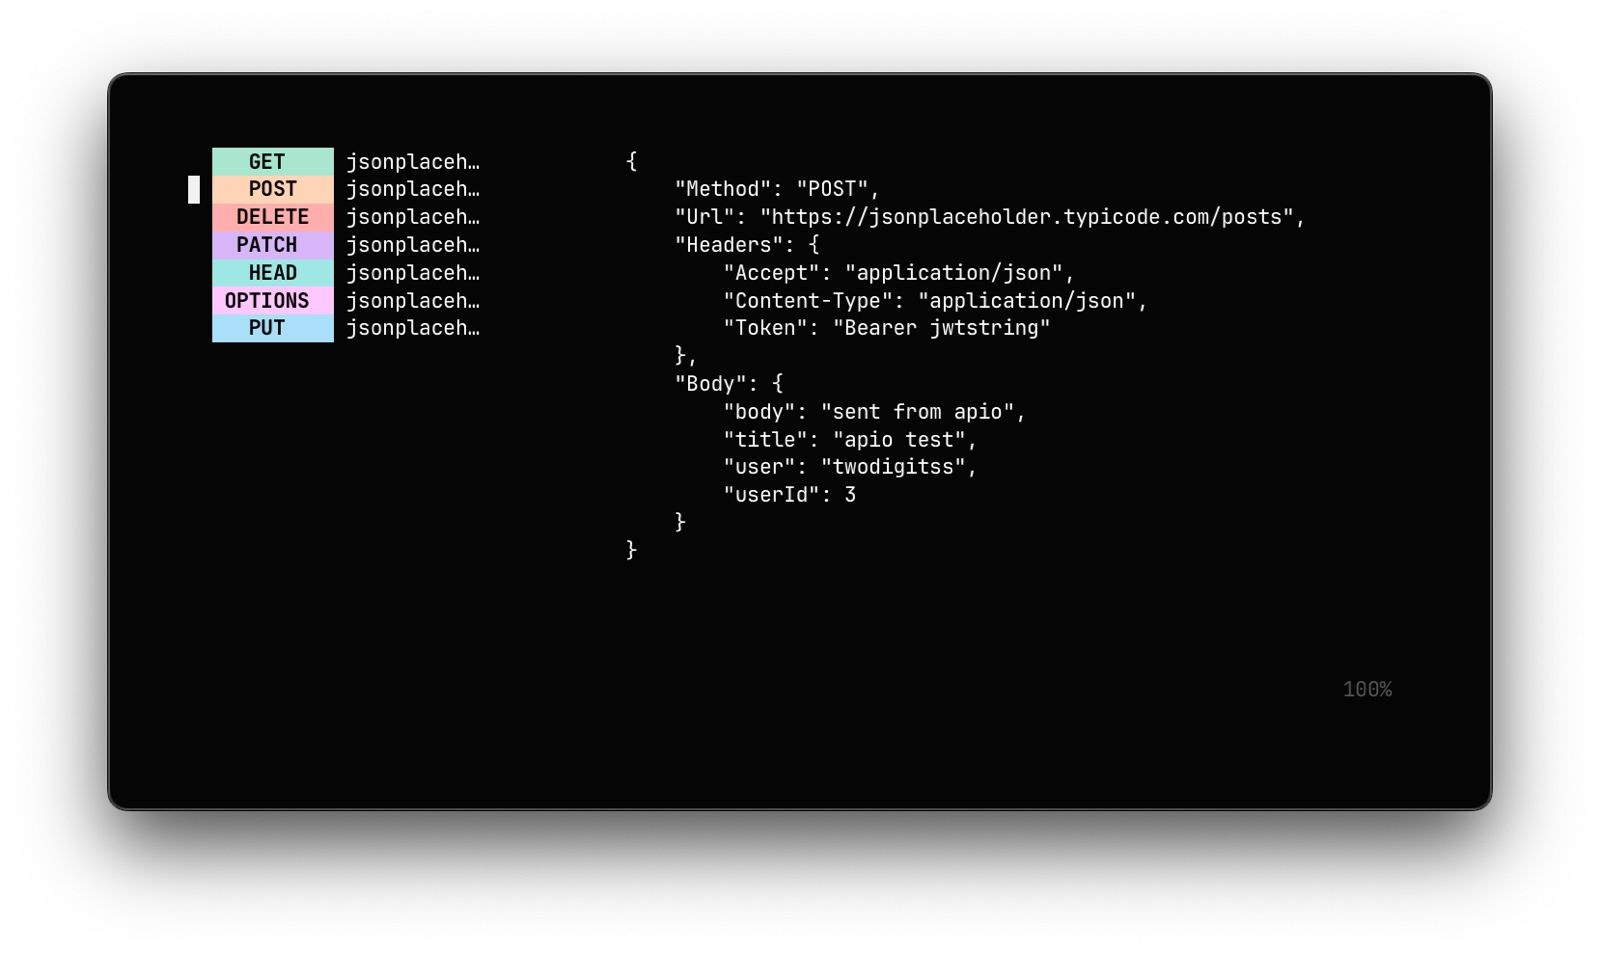
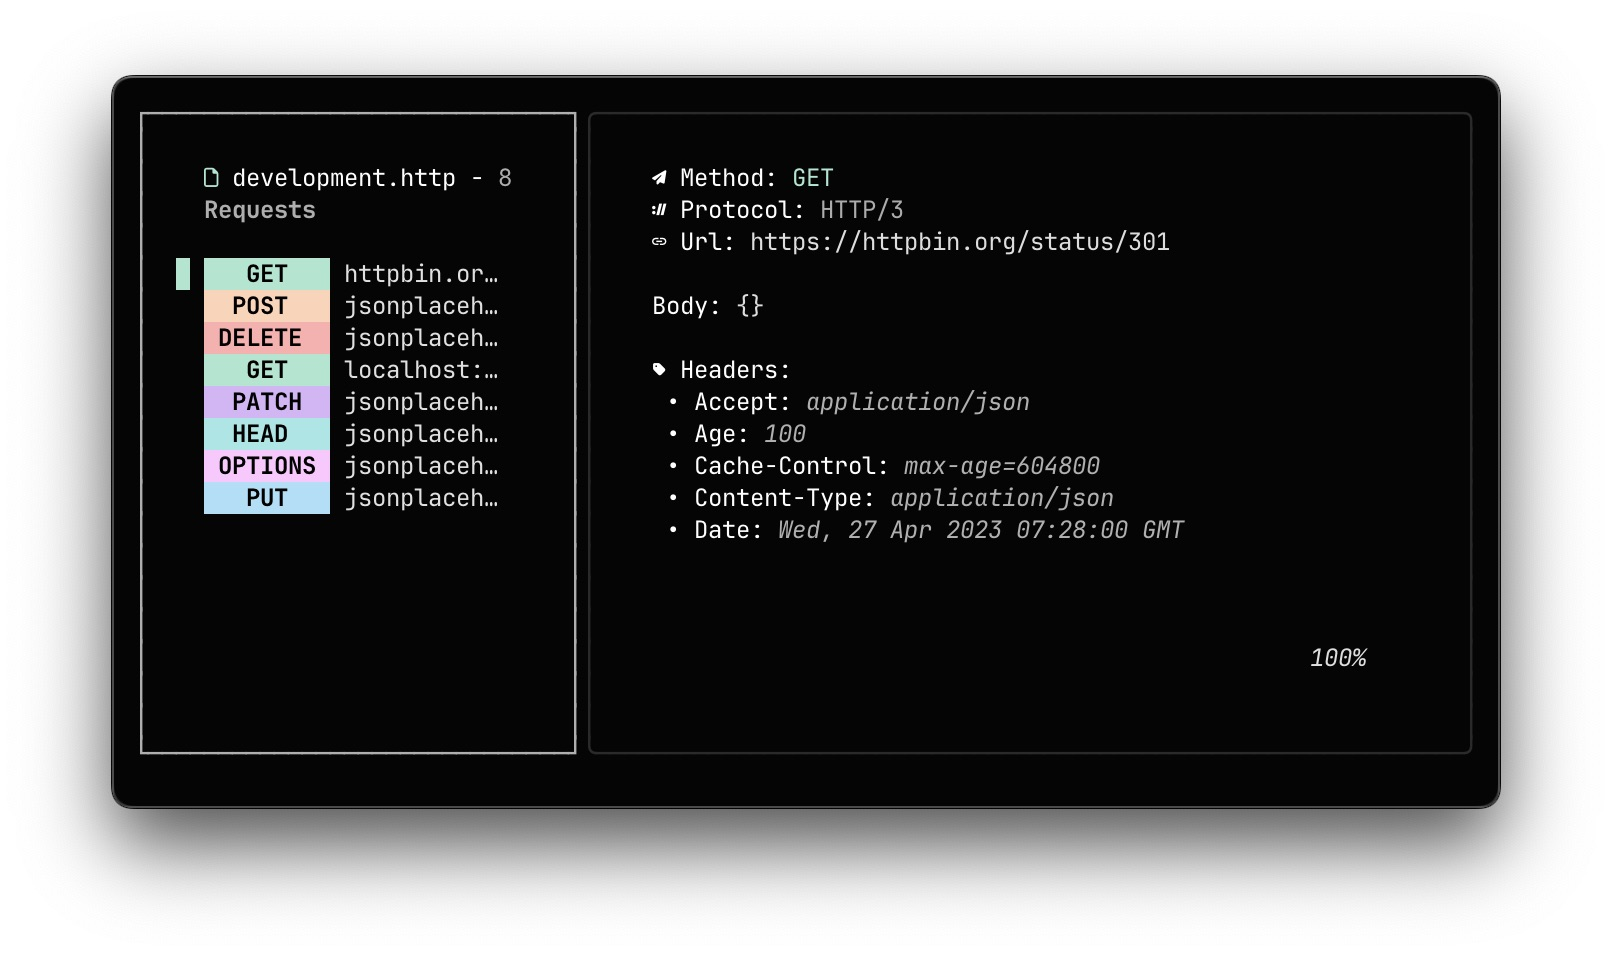
config file groundings

diff --git a/internal/core/config/config.go b/internal/core/config/config.go
@@ -1,0 +1,94 @@
+package config
+
+import (
+	"os"
+
+	"github.com/pelletier/go-toml"
+	"github.com/twodigitss/apio/internal/shared"
+)
+
+// var defaultPath string = shared.ExpandPath("~/.config/apio/config.toml")
+var defaultPath string = shared.ExpandPath("~/Projects/apio/cmd/tea/config.toml")
+
+type Config struct {
+	UI     UIConfig
+	Colors ColorsConfig
+	Path   string
+}
+
+type UIConfig struct {
+	Glyphs  bool
+	Sidebar string
+}
+
+type ColorsConfig struct {
+	GET     string
+	POST    string
+	PUT     string
+	DELETE  string
+	PATCH   string
+	HEAD    string
+	OPTIONS string
+	EXTRA   string
+
+	TEXT      string
+	SUBTEXT   string
+	INFRATEXT string
+
+	BORDER      string
+	SUBBORDER   string
+	INFRABORDER string
+}
+
+func Fallback[T comparable](value, fallback T) T {
+	var zero T
+	if value == zero {
+		return fallback
+	}
+	return value
+}
+
+func Default() Config {
+
+	newcfg := ReadCfgFile()
+
+	return Config{
+		Path: Fallback(newcfg.Path, defaultPath),
+		UI: UIConfig{
+			Glyphs:  Fallback(newcfg.UI.Glyphs, true),
+			Sidebar: Fallback(newcfg.UI.Sidebar, "left"),
+		},
+		Colors: ColorsConfig{
+			GET:     Fallback(newcfg.Colors.GET, "#A8E6CF"),
+			POST:    Fallback(newcfg.Colors.POST, "#FFD3B6"),
+			PUT:     Fallback(newcfg.Colors.PUT, "#A9DEF9"),
+			DELETE:  Fallback(newcfg.Colors.DELETE, "#FFADAD"),
+			PATCH:   Fallback(newcfg.Colors.PATCH, "#D8B4F8"),
+			HEAD:    Fallback(newcfg.Colors.HEAD, "#A0E7E5"),
+			OPTIONS: Fallback(newcfg.Colors.OPTIONS, "#FFC6FF"),
+			EXTRA:   Fallback(newcfg.Colors.EXTRA, "#b3e6a8"),
+
+			TEXT:      Fallback(newcfg.Colors.TEXT, "#F5F5F5"),
+			SUBTEXT:   Fallback(newcfg.Colors.SUBTEXT, "#CECECE"),
+			INFRATEXT: Fallback(newcfg.Colors.INFRATEXT, "#ABABAB"),
+
+			BORDER:      Fallback(newcfg.Colors.BORDER, "#F5F5F5"),
+			SUBBORDER:   Fallback(newcfg.Colors.SUBBORDER, "#4A4A4A"),
+			INFRABORDER: Fallback(newcfg.Colors.INFRABORDER, "#2A2A2A"),
+		},
+	}
+}
+
+func ReadCfgFile() Config {
+	var cfg Config
+	path := defaultPath
+	data, err := os.ReadFile(path)
+	if err != nil {
+		panic(err)
+	}
+	err = toml.Unmarshal(data, &cfg)
+	if err != nil {
+		panic(err)
+	}
+	return cfg
+}

diff --git a/internal/ui/components/help/view.go b/internal/ui/components/help/view.go
@@ -5,6 +5,7 @@ import (
 
 	"charm.land/lipgloss/v2"
 	"charm.land/lipgloss/v2/table"
+	"github.com/twodigitss/apio/internal/core/config"
 )
 
 var rows = [][]string{
@@ -21,10 +22,10 @@ var rows = [][]string{
 	{"y", "Copy body"},
 }
 
-var headerStyle = lipgloss.NewStyle().Foreground(lipgloss.Color("#A8E6CF")).Bold(true).Align(lipgloss.Center)
+var headerStyle = lipgloss.NewStyle().Foreground(lipgloss.Color(config.Default().Colors.GET)).Bold(true).Align(lipgloss.Center)
 var cellStyle = lipgloss.NewStyle().Padding(0, 1).Width(25).Align(lipgloss.Center, lipgloss.Center)
-var oddRowStyle = cellStyle.Foreground(lipgloss.Color("#a0a0a0"))
-var evenRowStyle = cellStyle.Foreground(lipgloss.Color("#efefef"))
+var oddRowStyle = cellStyle.Foreground(lipgloss.Color(config.Default().Colors.INFRATEXT))
+var evenRowStyle = cellStyle.Foreground(lipgloss.Color(config.Default().Colors.TEXT))
 
 func View(Height, Width int) string {
 	var s strings.Builder
@@ -40,7 +41,7 @@ func View(Height, Width int) string {
 
 	t := table.New().
 		Border(lipgloss.NormalBorder()).
-		BorderStyle(lipgloss.NewStyle().Foreground(lipgloss.Color("#4e4e4e"))).
+		BorderStyle(lipgloss.NewStyle().Foreground(lipgloss.Color(config.Default().Colors.SUBBORDER))).
 		Wrap(true).
 		StyleFunc(func(row, col int) lipgloss.Style {
 			switch {
@@ -57,7 +58,7 @@ func View(Height, Width int) string {
 
 	s.WriteString(t.Render() + "\n\n\n")
 	s.WriteString(
-		lipgloss.NewStyle().Foreground(lipgloss.Color("#b0b0b0")).Render("[esc/h/q/?] cancel\n\n"),
+		lipgloss.NewStyle().Foreground(lipgloss.Color(config.Default().Colors.INFRATEXT)).Render("[esc/h/q/?] cancel\n\n"),
 	)
 
 	return lipgloss.NewStyle().
@@ -65,6 +66,6 @@ func View(Height, Width int) string {
 		Width(Width).
 		Border(lipgloss.NormalBorder(), true, true).
 		Align(lipgloss.Center, lipgloss.Center).
-		BorderForeground(lipgloss.Color("#2a2a2a")).
+		BorderForeground(lipgloss.Color(config.Default().Colors.INFRABORDER)).
 		Render(s.String())
 }

diff --git a/internal/ui/view.go b/internal/ui/view.go
@@ -5,6 +5,7 @@ import (
 
 	tea "charm.land/bubbletea/v2"
 	"charm.land/lipgloss/v2"
+	"github.com/twodigitss/apio/internal/core/config"
 	"github.com/twodigitss/apio/internal/ui/components/help"
 	"github.com/twodigitss/apio/internal/ui/data"
 )
@@ -50,7 +51,7 @@ func (m Model) View() tea.View {
 					Render(m.fileSelection.Files[m.fileSelection.FileCursor].Name()),
 				" - ",
 				lipgloss.NewStyle().
-					Foreground(lipgloss.Color("#aeaeae")).
+					Foreground(lipgloss.Color(config.Default().Colors.SUBTEXT)).
 					Render(strconv.Itoa(len(m.sidebar.Requests))+" Requests"),
 				//
 			),
@@ -61,7 +62,7 @@ func (m Model) View() tea.View {
 		PaddingRight(2).
 		Height(m.Height).
 		Border(lipgloss.NormalBorder(), true, true).
-		BorderForeground(lipgloss.Color("#afafaf")).
+		BorderForeground(lipgloss.Color(config.Default().Colors.BORDER)).
 		// Background(lipgloss.Color("#121212")).
 		Render(
 			lipgloss.JoinVertical(lipgloss.Top, topBar, m.sidebar.View(sidebarWidth)),
@@ -74,13 +75,19 @@ func (m Model) View() tea.View {
 		PaddingTop(1).
 		Height(m.Height).
 		Border(lipgloss.RoundedBorder(), true, true).
-		BorderForeground(lipgloss.Color("#2a2a2a")).
+		BorderForeground(lipgloss.Color(config.Default().Colors.INFRABORDER)).
 		// Background(lipgloss.Color("#1f1f1f")).
 		Render(m.viewer.View())
 
-	v := tea.NewView(
-		lipgloss.JoinHorizontal(lipgloss.Top, left, right),
-	)
+	var res string
+	if config.Default().UI.Sidebar == "left" {
+		res = lipgloss.JoinHorizontal(lipgloss.Top, left, right)
+	} else {
+		res = lipgloss.JoinHorizontal(lipgloss.Top, right, left)
+	}
+
+	v := tea.NewView(res)
+
 	v.AltScreen = true
 	v.MouseMode = tea.MouseModeCellMotion
 	return v

diff --git a/internal/ui/update.go b/internal/ui/update.go
@@ -11,6 +11,7 @@ import (
 
 	tea "charm.land/bubbletea/v2"
 	"charm.land/lipgloss/v2"
+	"github.com/twodigitss/apio/internal/core/config"
 	"github.com/twodigitss/apio/internal/core/finder"
 	"github.com/twodigitss/apio/internal/core/parser/lexer"
 	"github.com/twodigitss/apio/internal/core/parser/models"
@@ -74,9 +75,9 @@ func (m Model) Update(msg tea.Msg) (tea.Model, tea.Cmd) {
 				lipgloss.NewStyle().Render(" Status"),
 				lipgloss.NewStyle().Foreground(lipgloss.Color(data.ColorResponse(m.response.StatusCode))).Render(strings.TrimSpace(m.response.Status)),
 				lipgloss.NewStyle().Bold(true).Render(" Protocol"),
-				lipgloss.NewStyle().Foreground(lipgloss.Color("#b0b0b0")).Render(strings.TrimSpace(m.response.Proto)),
+				lipgloss.NewStyle().Foreground(lipgloss.Color(config.Default().Colors.SUBTEXT)).Render(strings.TrimSpace(m.response.Proto)),
 				lipgloss.NewStyle().Bold(true).Render("Payload"),
-				lipgloss.NewStyle().Foreground(lipgloss.Color("#dedede")).Render(strings.TrimSpace(Response)),
+				lipgloss.NewStyle().Foreground(lipgloss.Color(config.Default().Colors.SUBTEXT)).Render(strings.TrimSpace(Response)),
 				lipgloss.NewStyle().Bold(true).Render(" Headers"),
 				prettyHeaders(m.response.Header),
 			),
@@ -248,7 +249,7 @@ func prettyHeaders(h http.Header) string {
 		for _, v := range h[k] {
 			fmt.Fprintf(&sb, " • %s: %s\n",
 				lipgloss.NewStyle().Render(k),
-				lipgloss.NewStyle().Foreground(lipgloss.Color("#b0b0b0")).Italic(true).Render(v),
+				lipgloss.NewStyle().Foreground(lipgloss.Color(config.Default().Colors.INFRATEXT)).Italic(true).Render(v),
 			)
 		}
 	}

diff --git a/internal/ui/components/fileselection/view.go b/internal/ui/components/fileselection/view.go
@@ -6,6 +6,7 @@ import (
 	"charm.land/lipgloss/v2"
 	"charm.land/lipgloss/v2/compat"
 	"charm.land/lipgloss/v2/tree"
+	"github.com/twodigitss/apio/internal/core/config"
 )
 
 func (m Model) View(Height, Width int) string {
@@ -42,7 +43,7 @@ func (m Model) View(Height, Width int) string {
 				}).
 				Blink(true).
 				Render(" ")
-			nameStyle = nameStyle.Bold(true).Foreground(lipgloss.Color("#A8E6CF"))
+			nameStyle = nameStyle.Bold(true).Foreground(lipgloss.Color(config.Default().Colors.GET))
 		}
 
 		body := cursor + " " + nameStyle.Render(file.Name())
@@ -51,7 +52,7 @@ func (m Model) View(Height, Width int) string {
 
 	s.WriteString(t.String() + "\n\n\n")
 	s.WriteString(
-		lipgloss.NewStyle().Foreground(lipgloss.Color("#b0b0b0")).Render("[esc/f] cancel\n\n"),
+		lipgloss.NewStyle().Foreground(lipgloss.Color(config.Default().Colors.INFRATEXT)).Render("[esc/f] cancel\n\n"),
 	)
 
 	return lipgloss.NewStyle().
@@ -60,6 +61,6 @@ func (m Model) View(Height, Width int) string {
 		Width(Width).
 		Align(lipgloss.Center, lipgloss.Center).
 		Border(lipgloss.NormalBorder(), true, true).
-		BorderForeground(lipgloss.Color("#2a2a2a")).
+		BorderForeground(lipgloss.Color(config.Default().Colors.INFRABORDER)).
 		Render(s.String())
 }

diff --git a/internal/ui/data/styles.go b/internal/ui/data/styles.go
@@ -4,18 +4,19 @@ import (
 	"strings"
 
 	"charm.land/lipgloss/v2"
+	"github.com/twodigitss/apio/internal/core/config"
 	"github.com/twodigitss/apio/internal/shared"
 )
 
 var styles = map[string]string{
-	"GET":     "#A8E6CF",
-	"POST":    "#FFD3B6",
-	"PUT":     "#A9DEF9",
-	"DELETE":  "#FFADAD",
-	"PATCH":   "#D8B4F8",
-	"HEAD":    "#A0E7E5",
-	"OPTIONS": "#FFC6FF",
-	"EXTRA":   "#b3e6a8",
+	"GET":     config.Default().Colors.GET,
+	"POST":    config.Default().Colors.POST,
+	"PUT":     config.Default().Colors.PUT,
+	"DELETE":  config.Default().Colors.DELETE,
+	"PATCH":   config.Default().Colors.PATCH,
+	"HEAD":    config.Default().Colors.HEAD,
+	"OPTIONS": config.Default().Colors.OPTIONS,
+	"EXTRA":   config.Default().Colors.EXTRA,
 }
 
 func StyleHttpMethod(line string) lipgloss.Style {

diff --git a/internal/ui/components/sidebar/view.go b/internal/ui/components/sidebar/view.go
@@ -6,6 +6,7 @@ import (
 
 	"charm.land/lipgloss/v2"
 	"charm.land/lipgloss/v2/compat"
+	"github.com/twodigitss/apio/internal/core/config"
 	"github.com/twodigitss/apio/internal/ui/data"
 )
 
@@ -32,7 +33,7 @@ func (m Model) View(width int) string {
 
 		fmt.Fprintf(&s, "%s %s %s\n",
 			cursor, style.Bold(true).Render(choice.Method),
-			lipgloss.NewStyle().Foreground(lipgloss.Color("#e0e0e0")).Render(urlTitle))
+			lipgloss.NewStyle().Foreground(lipgloss.Color(config.Default().Colors.TEXT)).Render(urlTitle))
 	}
 	return s.String()
 }

diff --git a/internal/ui/components/viewer/view.go b/internal/ui/components/viewer/view.go
@@ -5,6 +5,7 @@ import (
 	"strings"
 
 	"charm.land/lipgloss/v2"
+	"github.com/twodigitss/apio/internal/core/config"
 )
 
 func (m Model) View() string {
@@ -25,7 +26,7 @@ func (m Model) View() string {
 	}
 
 	footerText := fmt.Sprintf(" %s ", percentStr)
-	footerStyle := lipgloss.NewStyle().Foreground(lipgloss.Color("#dedede")).Italic(true)
+	footerStyle := lipgloss.NewStyle().Foreground(lipgloss.Color(config.Default().Colors.SUBTEXT)).Italic(true)
 	footerVal := footerStyle.Render(footerText)
 
 	width := m.Viewport.Width()
